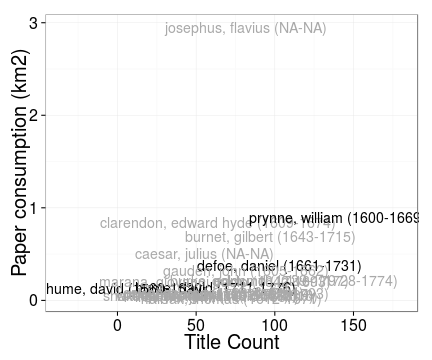
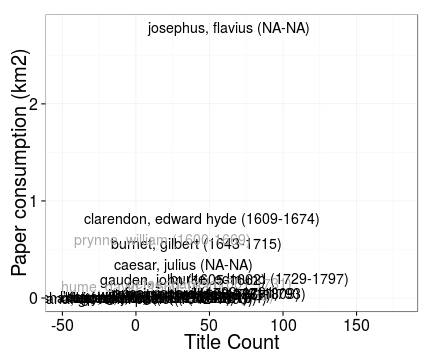
ok

diff --git a/inst/examples/20151023-LIBER.md b/inst/examples/20151023-LIBER.md
@@ -19,14 +19,7 @@
 ![plot of chunk 20151023LIBER-3b](figure/20151023LIBER-3b-1.png) ![plot of chunk 20151023LIBER-3b](figure/20151023LIBER-3b-2.png) 
 
 
-
-```
-## Error in eval(expr, envir, enclos): object 'paper.consumption.km2' not found
-```
-
-```
-## Error in eval(expr, envir, enclos): object 'titles' not found
-```
+![plot of chunk 20151023LIBER-4](figure/20151023LIBER-4-1.png) 
 
 
 
